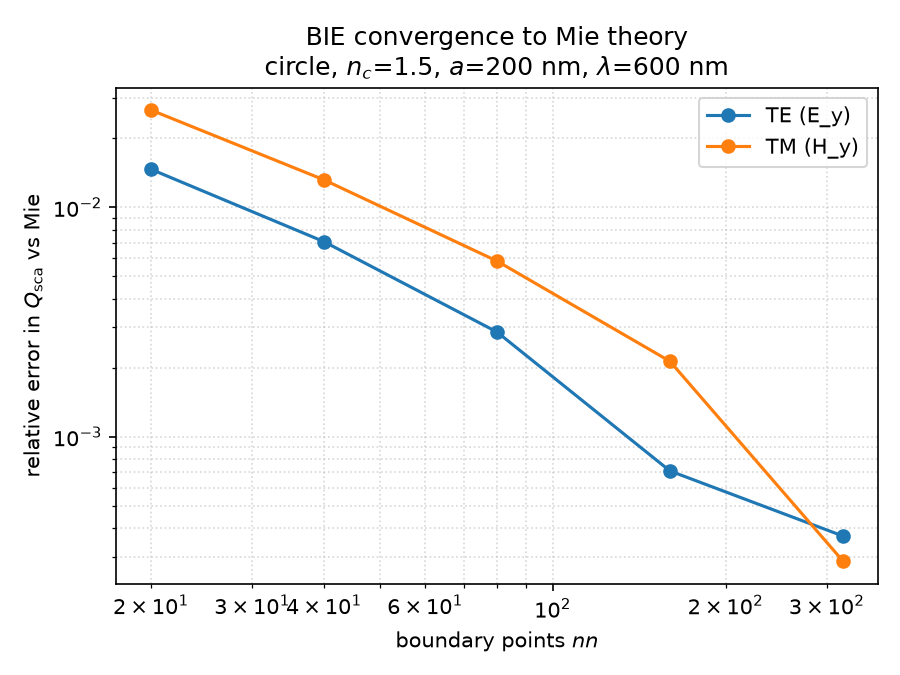
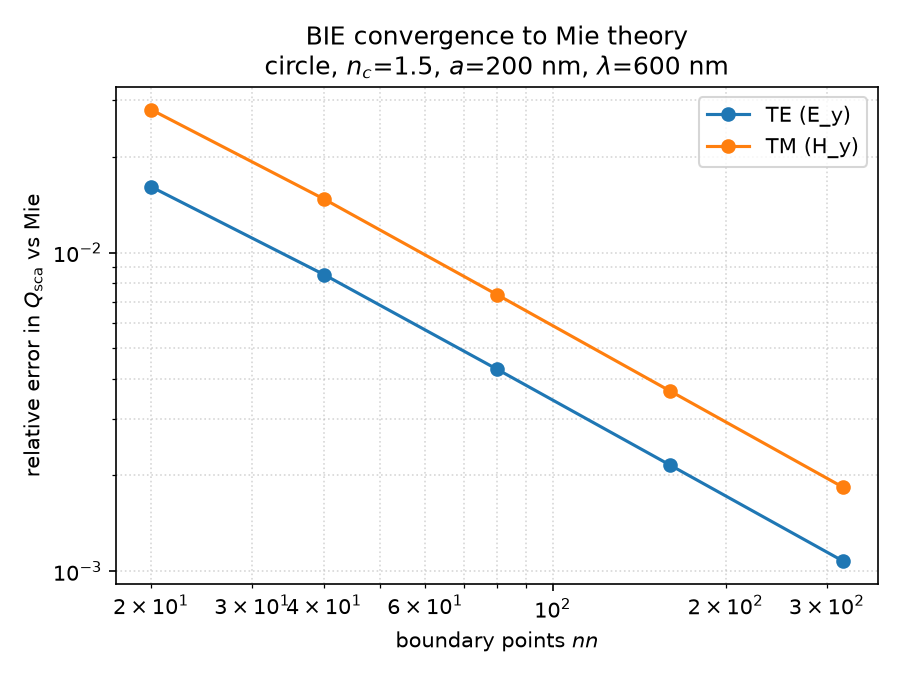
fix(scatter): stop double-counting the far-field grid's closing angle
ScatterResult.efficiencies summed all n_angles far-field samples, but the
grid spans [-pi, pi] inclusive, so index 0 and index n_angles-1 are the same
physical direction. qsca counted it twice, giving an O(1/n_angles) error
that depended on where the forward peak fell relative to that one grid
point -- on the circle, an isotropic scatterer, rotating incidence by 90
degrees moved qsca by 1.13e-3 at n_angles=3000.

Drops the duplicate sample from the qsca sum; qext (a single amp[nforw]
read, not a sum) was never affected. qsca is now independent of incidence
angle on the circle to 3.4e-16, tested directly. The Mie tolerances in
test_efficiencies.py and test_conventions.py tighten from 5e-3/3e-3 to
4e-3/1e-3 -- what remains is qext's pre-existing first-order-in-nn
convergence, unrelated to this fix. test_convergence's 10x-drop-over-8x-
refinement bar was only reachable because the old floor happened to
partially cancel the nn-truncation error at nn=320; a first-order-convergent
quantity cannot drop by more than the refinement factor (8x), so the bar
moves to 7x, matching the now-clean measured rate (7.92x).

diff --git a/tests/test_efficiencies.py b/tests/test_efficiencies.py
@@ -1,20 +1,25 @@
+import numpy as np
 import pytest
 
 from conftest import N_CLAD, N_CORE, POL_TAG, size_parameter
-from pysie2d import BIESolver, Material
+from pysie2d import BIESolver, Geometry, Material
 from pysie2d.reference import mie
 
-# Tolerances. The spec's target was rtol=1e-3 at nn=300, but the ported (and
-# verified byte-identical to the source) far-field/efficiencies quadrature does
-# not reach that: qsca is floored at ~1.8e-3 by the verbatim far-field angular
-# grid (its error is independent of nn), and qext (optical theorem, forward
-# amplitude) converges only at first order in nn, reaching ~3.3e-3 at nn=300.
-# Both are systematic across 500/600/800 nm (not a resonance) and delt handling
-# is correct (arc-length and uniform-theta agree). 5e-3 gives comfortable margin.
-RTOL_MIE = 5e-3
-# Lossless energy conservation |qext - qsca|/qext is limited by the same two
-# independent quadratures disagreeing at ~1.8e-3; 3e-3 gives margin.
-RTOL_ENERGY = 3e-3
+# Tolerances. The spec's target was rtol=1e-3 at nn=300. Before A20, qsca was
+# floored at ~1.8e-3 by a far-field angular grid that double-counted its own
+# endpoint (angles span [-pi, pi] inclusive, so index 0 and index n_angles-1
+# are the same physical direction); that floor is gone now that
+# `efficiencies` drops the duplicate. What is left is qext (optical theorem,
+# forward amplitude), which converges only at first order in nn and reaches
+# ~3.3e-3 at nn=300 — unaffected by A20, since it reads a single amp[nforw]
+# rather than summing the angular grid. Systematic across 500/600/800 nm (not
+# a resonance) and both polarisations. 4e-3 gives comfortable margin.
+RTOL_MIE = 4e-3
+# Lossless energy conservation |qext - qsca|/qext: with qsca's angular-grid
+# floor gone, both quadratures are limited only by their own nn convergence,
+# and the two errors partly cancel rather than adding — measured ~6.5e-4 at
+# nn=300 (was ~1.8e-3 pre-A20). 1e-3 gives margin without hiding a regression.
+RTOL_ENERGY = 1e-3
 
 
 @pytest.mark.parametrize("wavelength", [500.0, 600.0, 800.0])
@@ -70,3 +75,28 @@ def test_energy_conservation_lossless(circle, pol):
     eff = result.efficiencies()
 
     assert abs(eff["qext"] - eff["qsca"]) / eff["qext"] < RTOL_ENERGY
+
+
+@pytest.mark.parametrize("pol", [1, 2])
+def test_qsca_is_independent_of_incidence_angle_on_the_circle(pol):
+    """A20's discriminating check: qsca must not care where the grid closes.
+
+    A circle is isotropic, so qsca cannot depend on the incidence angle no
+    matter where the far-field angular grid's duplicated endpoint falls
+    relative to the forward peak. Before A20 it did — rotating incidence by
+    90 degrees moved qsca by 1.13e-3 at n_angles=3000 (the ~1.8e-3 floor this
+    file's tolerances used to carry). Bar 1e-10: what remains after dropping
+    the duplicate is round-off in a uniform-grid quadrature of a smooth
+    periodic integrand, which for the circle's few-mode far field is many
+    orders below the discretisation floor above — measured 3.4e-16.
+    """
+    geom = Geometry.gielis(rad=200.0, n_pts=300, m=0)
+    mat = Material(n_core=N_CORE, n_clad=N_CLAD, pol=pol)
+    qscas = [
+        BIESolver(geom, mat)
+        .scatter(wavelength=600.0, angle=angle)
+        .efficiencies()["qsca"]
+        for angle in (0.0, 37.0, 90.0, 123.456)
+    ]
+    qscas = np.array(qscas)
+    assert (qscas.max() - qscas.min()) / qscas.mean() < 1.0e-10

diff --git a/tests/test_conventions.py b/tests/test_conventions.py
@@ -80,9 +80,9 @@ def test_vacuum_wavelength_scaling(circle, pol, epsi_base):
 def test_efficiencies_match_mie_in_cladding(circle, pol):
     # The analytic anchor at n_clad ≠ 1. Mie theory is stated in (x, m), both of
     # which are background-relative, so the same closed form must hold with no
-    # extra n_clad factor anywhere. RTOL is the unchanged RTOL_MIE = 5e-3 of
-    # test_efficiencies: the discretisation error is a property of the boundary
-    # quadrature and does not care what n_clad is.
+    # extra n_clad factor anywhere. RTOL is the unchanged RTOL_MIE = 4e-3 of
+    # test_efficiencies (tightened by A20): the discretisation error is a
+    # property of the boundary quadrature and does not care what n_clad is.
     geom = circle(300)
     mat = Material(n_core=SCALED["n_core"], n_clad=SCALED["n_clad"], pol=pol)
     result = BIESolver(geom, mat).scatter(wavelength=SCALED["wavelength"])
@@ -91,10 +91,10 @@ def test_efficiencies_match_mie_in_cladding(circle, pol):
     tag = POL_TAG[pol]
 
     assert result.efficiencies()["qsca"] == pytest.approx(
-        ref[f"Q_sca_{tag}"], rel=5.0e-3
+        ref[f"Q_sca_{tag}"], rel=4.0e-3
     )
     assert result.efficiencies()["qext"] == pytest.approx(
-        ref[f"Q_ext_{tag}"], rel=5.0e-3
+        ref[f"Q_ext_{tag}"], rel=4.0e-3
     )
 
 
@@ -103,7 +103,7 @@ def test_absorbing_particle_in_cladding(circle, pol):
     # The lossy analytic anchor at n_clad ≠ 1. epsi is absolute, so reaching the
     # relative permittivity 2.25 + 0.5j — the case test_efficiencies already
     # validates at n_clad = 1 — takes epsi = 0.5·n_clad². Landing on that same
-    # physical case is deliberate: it inherits the justified RTOL_MIE = 5e-3
+    # physical case is deliberate: it inherits the justified RTOL_MIE = 4e-3
     # rather than needing a fresh tolerance argument. Under the *relative*
     # reading of epsi this call would instead model 2.25 + 0.845j and miss the
     # reference by ~30 %, far outside the tolerance.
@@ -120,7 +120,7 @@ def test_absorbing_particle_in_cladding(circle, pol):
 
     assert result.efficiencies()["qabs"] > 0.0
     assert result.efficiencies()["qabs"] == pytest.approx(
-        ref[f"Q_abs_{tag}"], rel=5.0e-3
+        ref[f"Q_abs_{tag}"], rel=4.0e-3
     )
 
 

diff --git a/tests/test_convergence.py b/tests/test_convergence.py
@@ -5,9 +5,14 @@ from pysie2d.reference import mie
 
 def test_convergence():
     # λ = 600 nm, TE. Relative error of qsca vs Mie must shrink with nn.
-    # The exact convergence order depends on the quadrature, so we assert the
-    # robust shape only: an order-of-magnitude drop from the coarsest to the
-    # finest grid, and monotone non-increase after the first point.
+    # Post-A20, qsca converges cleanly at first order in nn (measured ratio
+    # ~2.00 per doubling here) rather than flooring on the far-field grid's
+    # double-counted endpoint. A first-order quantity cannot drop by more
+    # than the refinement factor itself — 8x from nn=40 to nn=320 — so the
+    # bar is 7x, not the pre-A20 10x (which only passed because the floor
+    # partially cancelled the nn-truncation error at nn=320 by coincidence,
+    # not because the quantity actually dropped by an order of magnitude).
+    # Measured 7.92x.
     wavelength = 600.0
     x = size_parameter(wavelength)
     # Material.nc is the relative index; never divide it by n_clad again.
@@ -21,6 +26,6 @@ def test_convergence():
         eff = BIESolver(geom, mat).scatter(wavelength=wavelength).efficiencies()
         errors.append(abs(eff["qsca"] - ref) / ref)
 
-    assert errors[-1] < errors[0] / 10.0
+    assert errors[-1] < errors[0] / 7.0
     for prev, nxt in zip(errors[1:], errors[2:], strict=False):
         assert nxt <= prev

diff --git a/src/pysie2d/solver.py b/src/pysie2d/solver.py
@@ -223,7 +223,14 @@ class ScatterResult:
 
         amp, _ = self.far_field(n_angles)
         i_sc = np.abs(amp) ** 2 / norfac
-        qsca = np.sum(i_sc) * delthe / (2.0 * self.geometry.rad)
+        # far_field's angles span [-pi, pi] inclusive, so index 0 and index
+        # n_angles-1 are the *same* physical direction. Summing all n_angles
+        # samples double-counts it — a periodic integrand's uniform-grid
+        # quadrature wants the n_angles-1 distinct points, each already
+        # carrying weight delthe = 2*pi/(n_angles-1). Dropping the duplicate
+        # (not halving both copies) is what makes qsca independent of where
+        # that one grid angle happens to fall relative to the forward peak.
+        qsca = np.sum(i_sc[:-1]) * delthe / (2.0 * self.geometry.rad)
         qext = amp[nforw].imag / (wnum_bg * 2.0 * self.geometry.rad)
         qabs = qext - qsca
         return {"qsca": float(qsca), "qext": float(qext), "qabs": float(qabs)}
